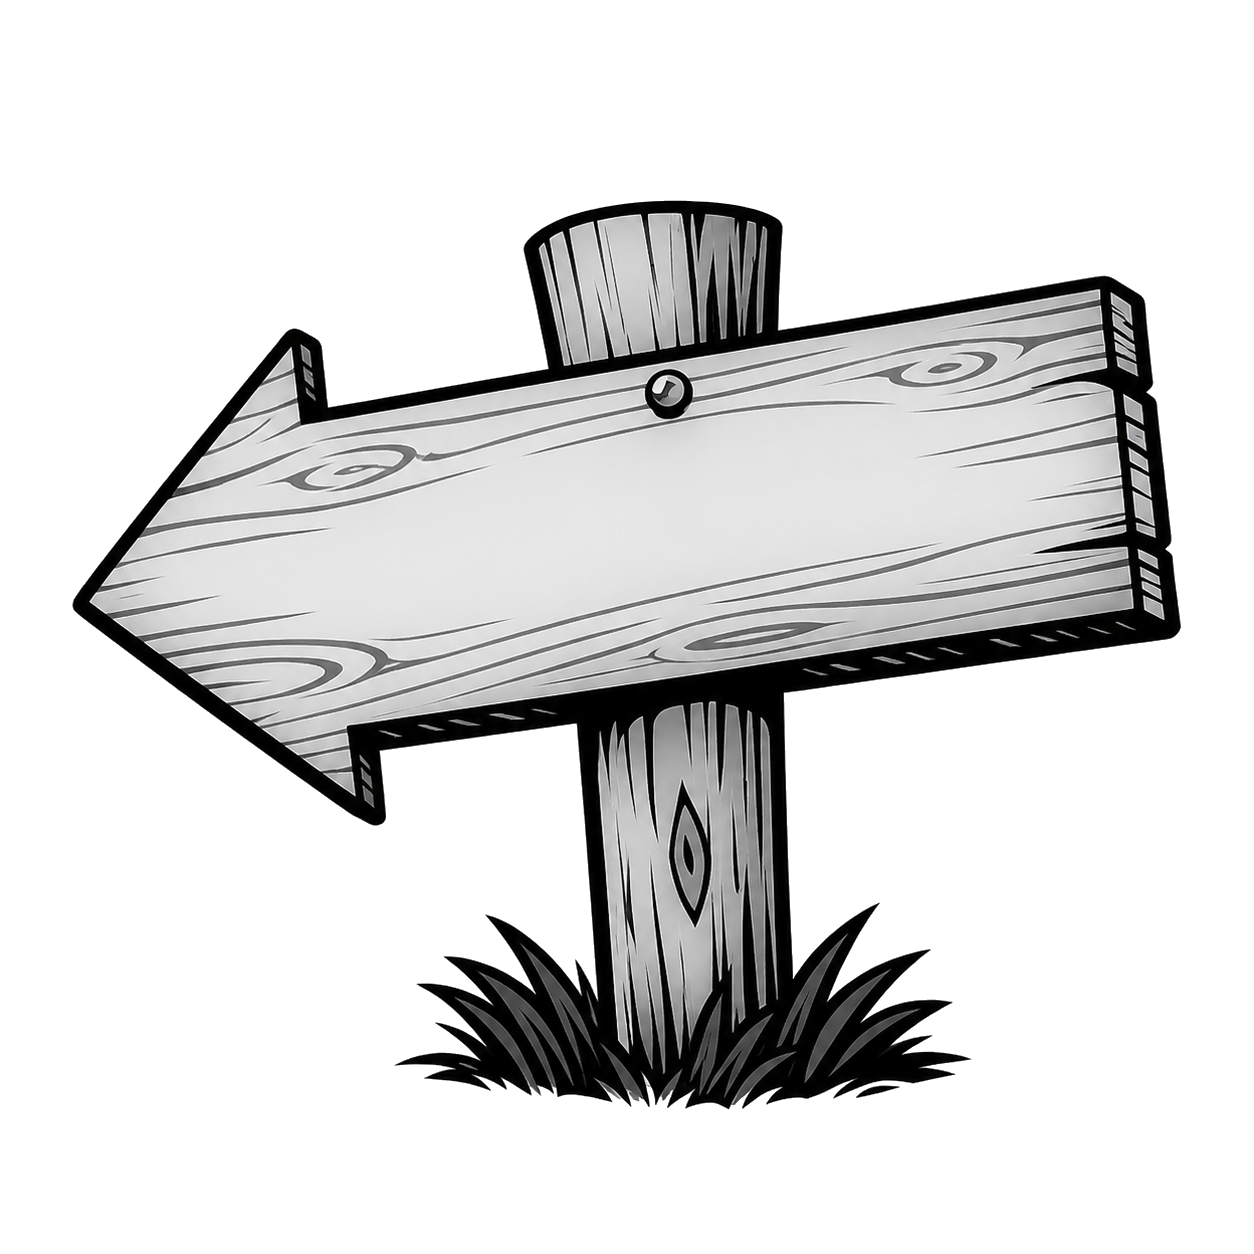
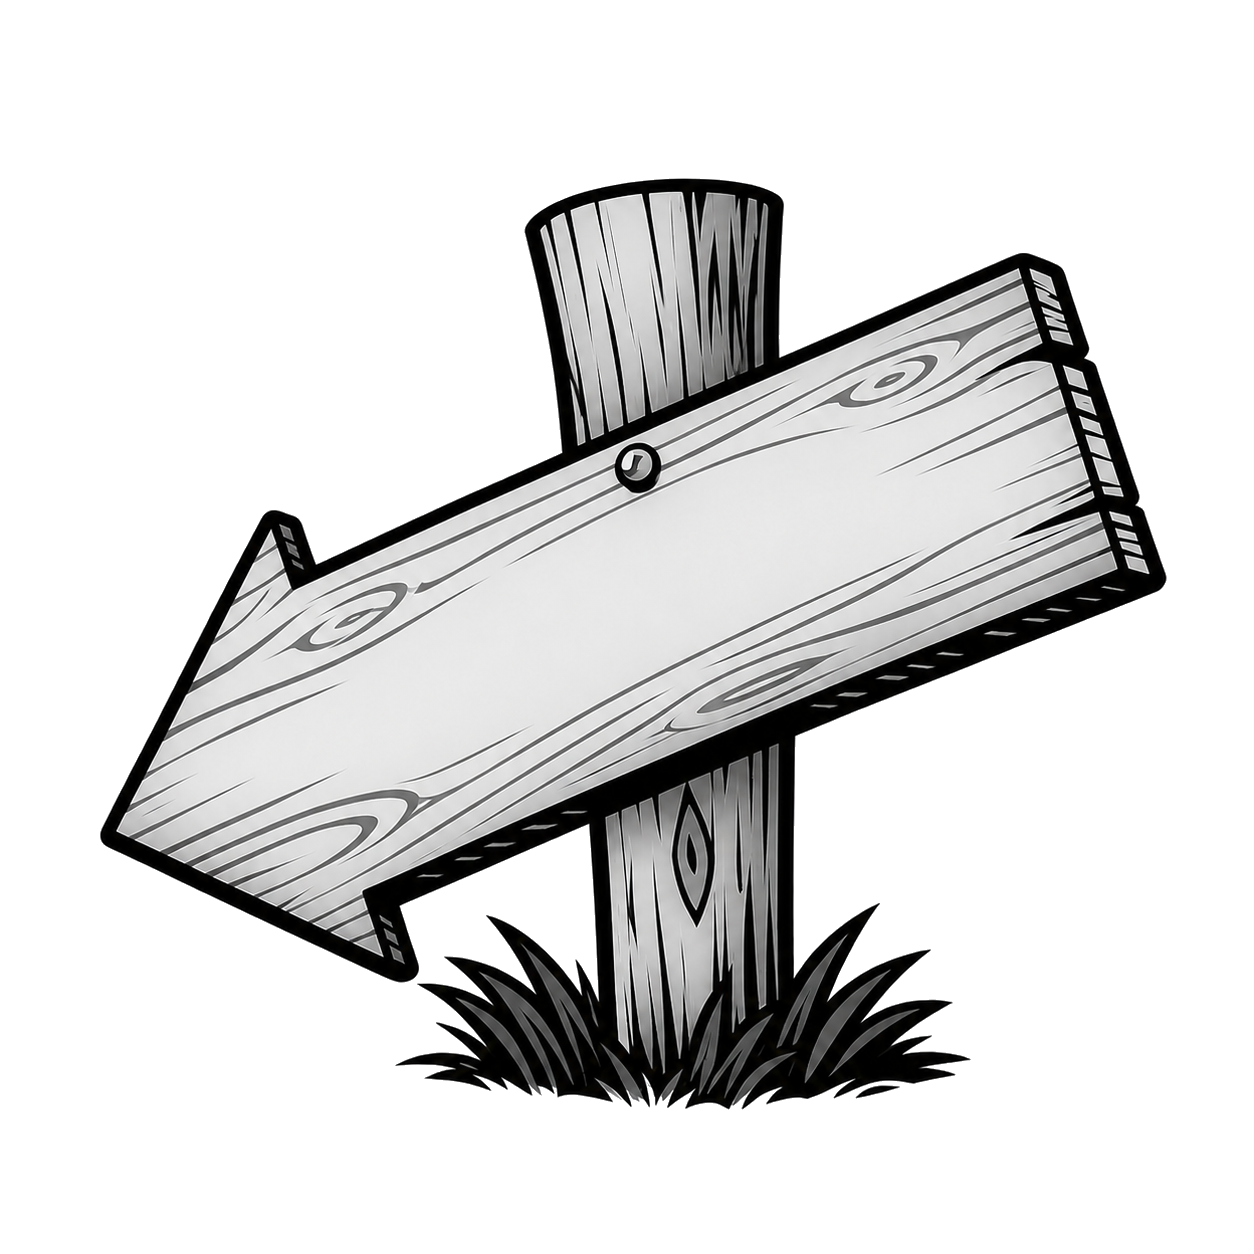
Sign points down-left → move to upper-right; de-alpha new art, tilt caption
New signpost art points down-left, so drop the flip and place it upper-right
aiming into the swirl. Re-run background flood-fill to alpha on the new PNG.
Rotate the plank caption to match the new plank angle.

Changed region(s): [[0.0622, 0.1244, 0.9641, 0.8397]]

diff --git a/app/page.js b/app/page.js
@@ -40,14 +40,13 @@ const SRUTH = {
 // GLOW — the white-hot core of the whirlpool (this art: just left/below centre).
 const GLOW = { top: '52%', left: '47%', size: '26%' };
 
-// SIGN — the cartoon signpost block, upper-left. flip:true mirrors the art so
-// its (left-pointing) arrow aims inward toward the vortex; rotate tilts it so
-// it reads as pointing down into the swirl.
-const SIGN = { top: '1%', left: '-1%', width: '44%', rotate: '15deg', flip: true };
+// SIGN — the cartoon signpost block, upper-right. The new art points down-left,
+// so no flip needed; it aims into the swirl from the upper-right corner.
+const SIGN = { top: '-3%', left: '55%', width: '44%', rotate: '0deg', flip: false };
 
-// CAP — the toggling caption, positioned over the blank plank *within* the
-// sign block (so it tilts + tracks with the sign).
-const CAP = { top: '42%', left: '47%', width: '58%', rotate: '-3deg' };
+// CAP — the toggling caption, over the blank plank *within* the sign block
+// (tilts + tracks with the sign). Plank rises to the right → negative rotate.
+const CAP = { top: '41%', left: '56%', width: '48%', rotate: '-20deg' };
 
 export default function Home() {
   const [vortexError, setVortexError] = useState(false);
